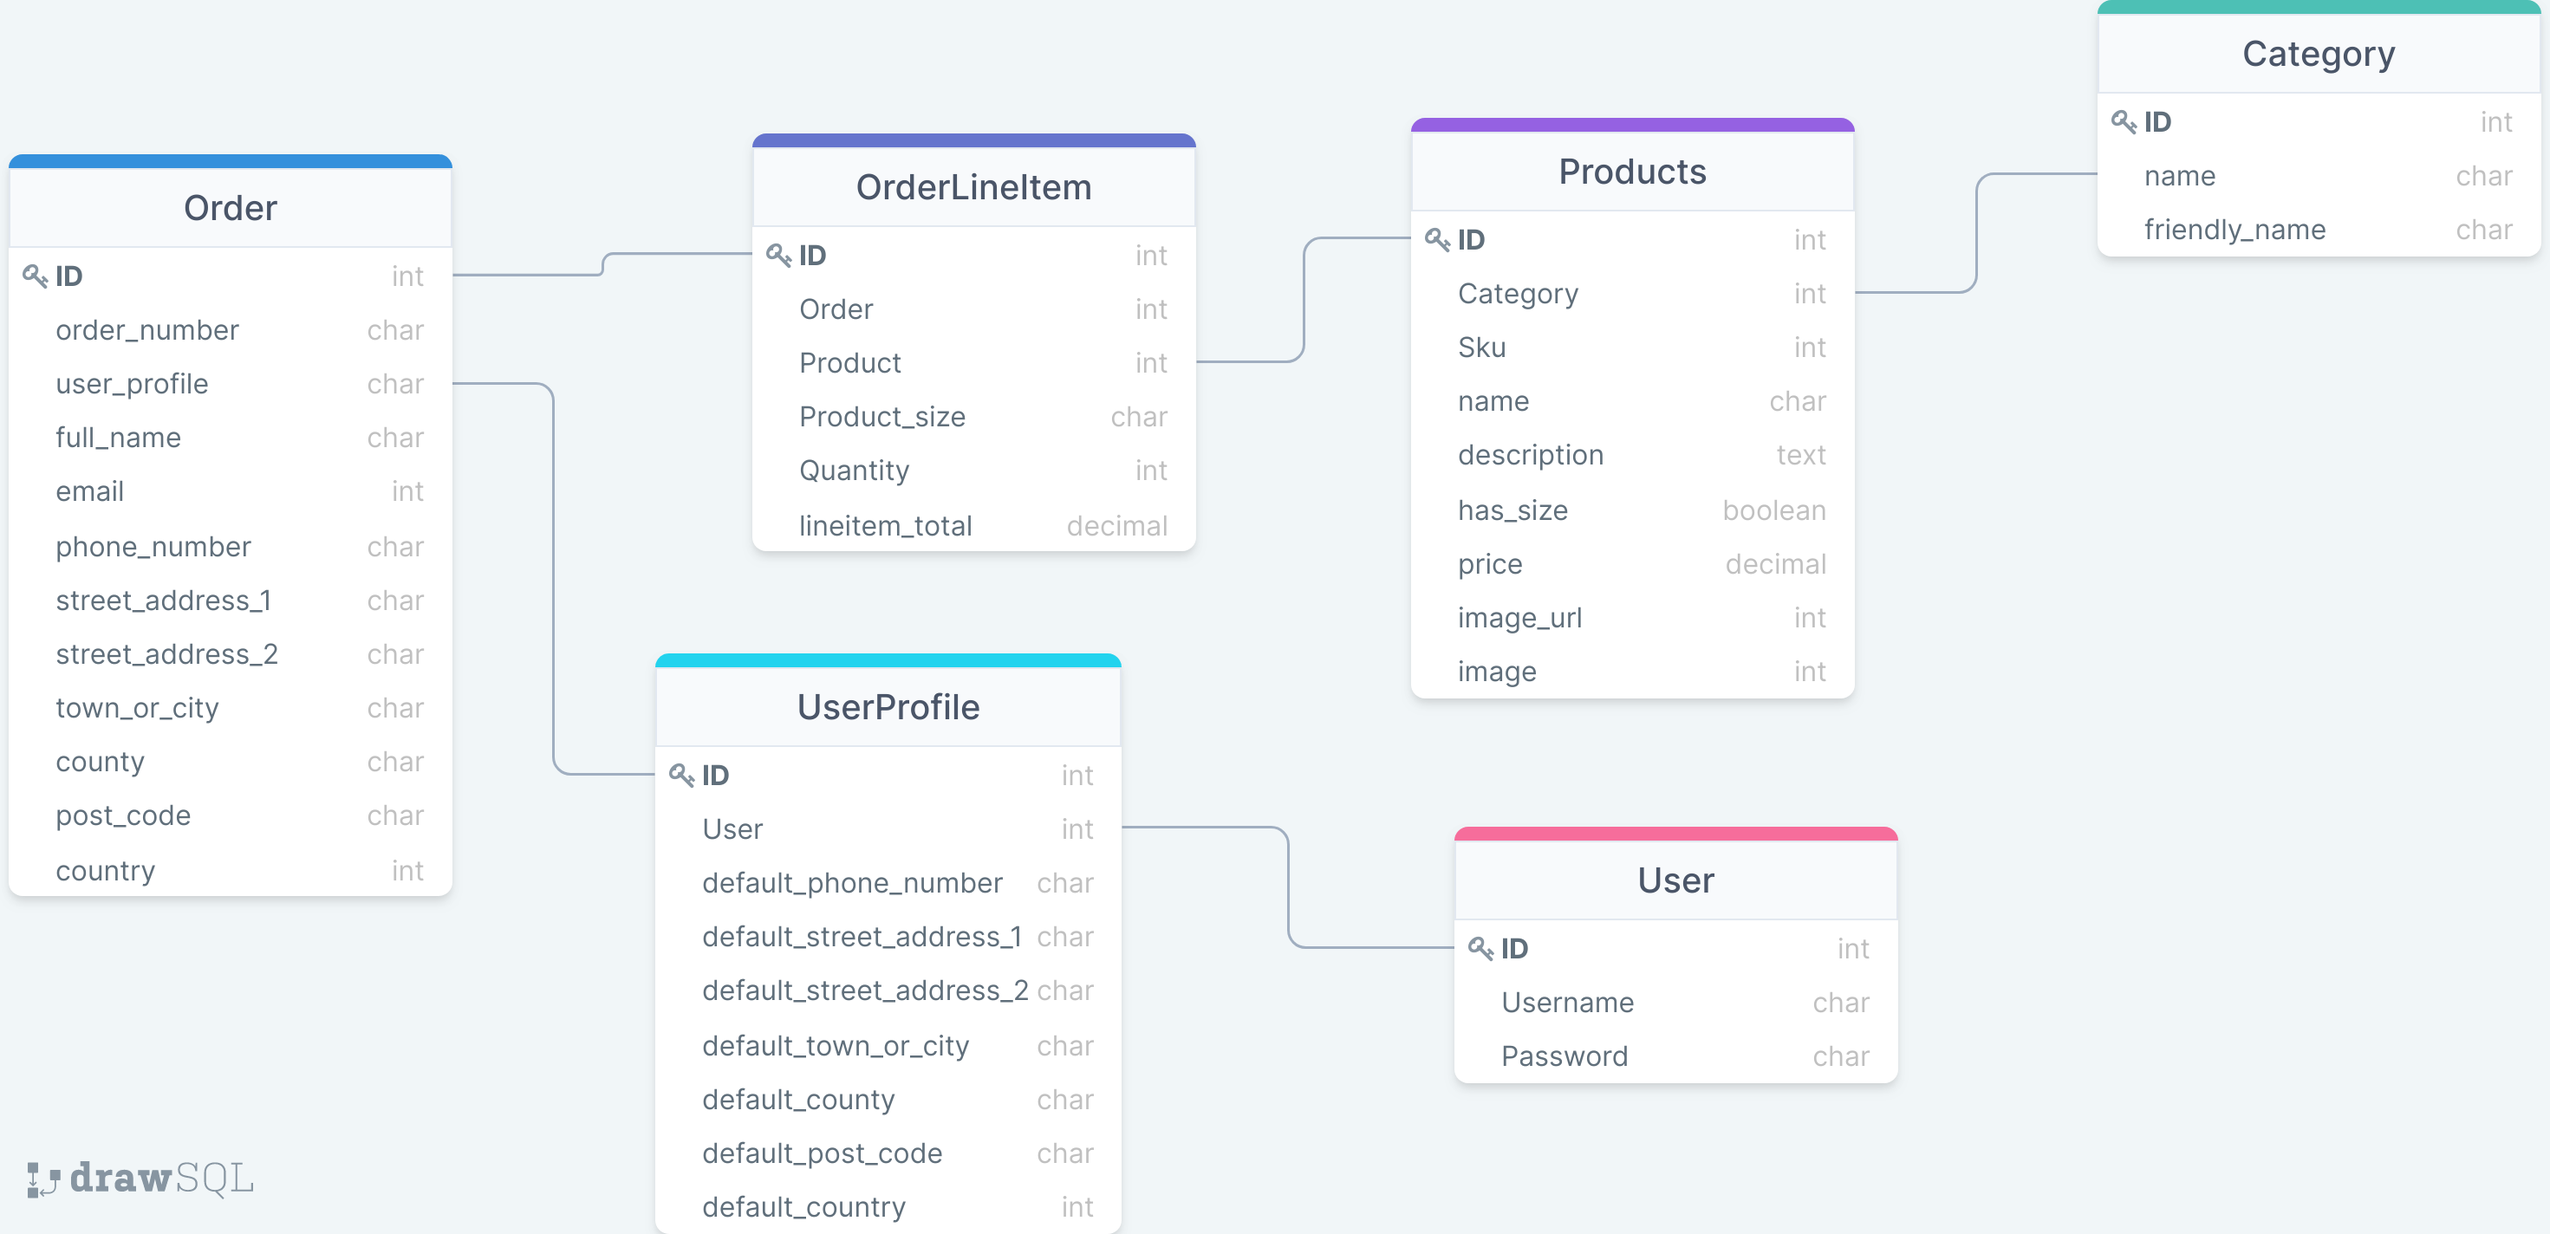
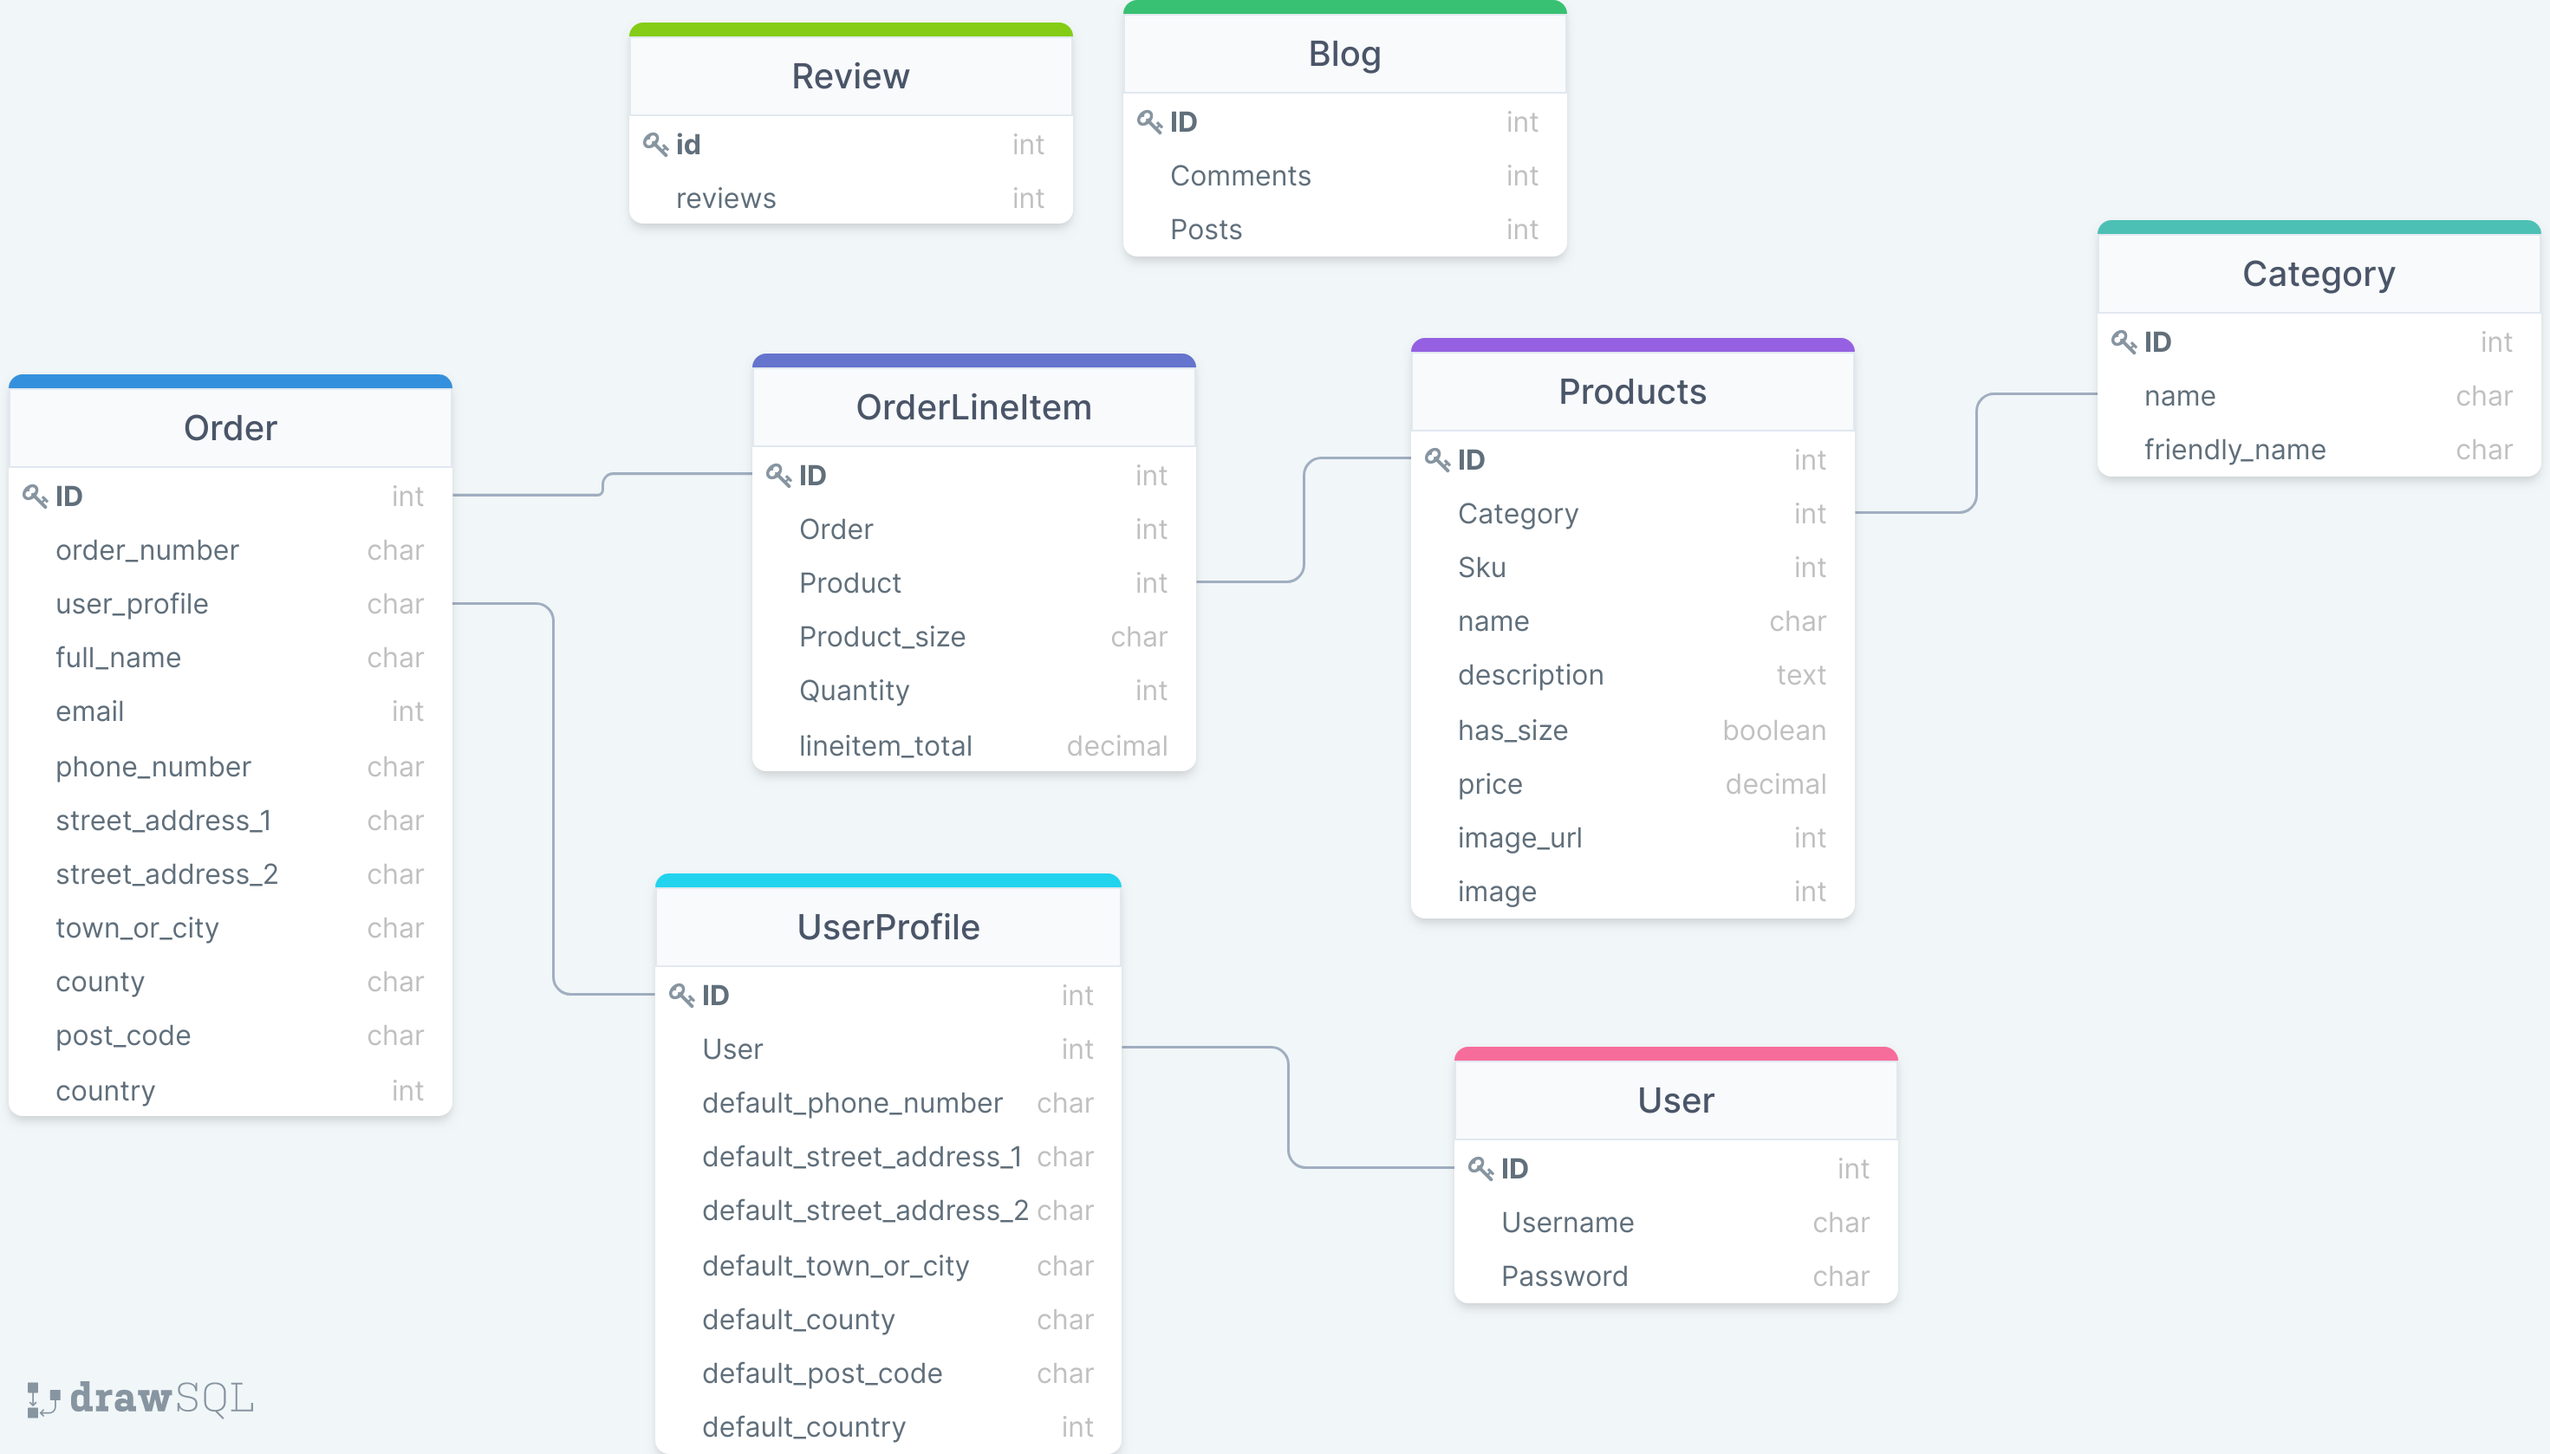
Updating my features section in readme

diff --git a/README.md b/README.md
@@ -138,6 +138,7 @@ Initial Wireframes were produced showing the Products, home page, order summary,
 ### **Site Map**
 
 ![fonts](readme/media/site-map.png)
+![fonts](readme/media/blog-review-mindmap.png)
 
 A Site Map was produced for the first development stage and is shown above. Note that the orange squares are the pages that only the admin can access so that no one can delete or edit a product.
 
@@ -169,6 +170,16 @@ A Site Map was produced for the first development stage and is shown above. Note
 4. Profile
 - UserProfile
    - This model contains the default order details saved from customer's previous orders which they can use for future orders.
+
+5. Blog
+- Post
+  - Contains the blog post and details of its author and title.
+- Comments
+  - Contains the comments for each post.
+
+6. Reviews
+- Review
+  - Contains the review sections.
 
 [Back to contents](#content)
 
@@ -223,6 +234,14 @@ A Site Map was produced for the first development stage and is shown above. Note
 9. Profile Page
 - Has profile navigation allowing users to view their information.
 - A section with the order they have previously made.
+
+10. Blog Page
+- All the infomation will be located here for latest updates of the company.
+- Only the admin can add/delete blogs.
+
+11. Review Page
+- Users will be able to access this to leave a personal review.
+- The user can also delete and update the review, but only their own.
 
 [Back to contents](#content)
 
